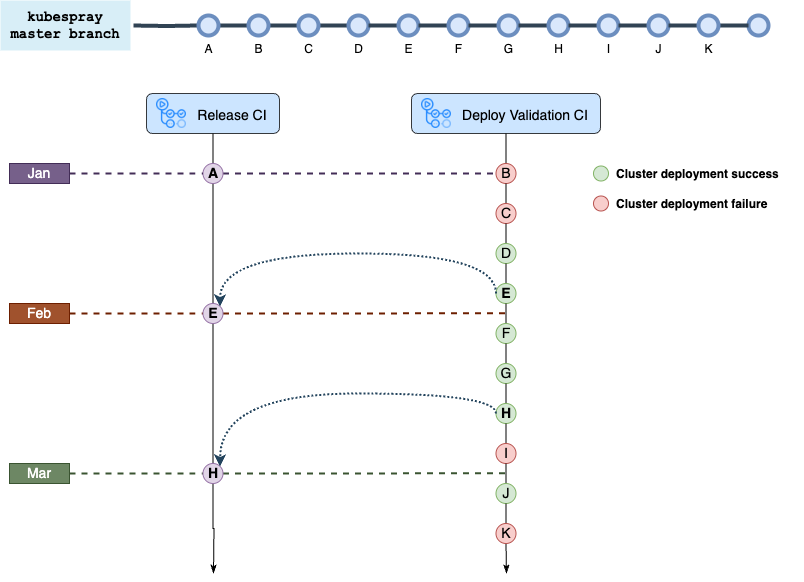
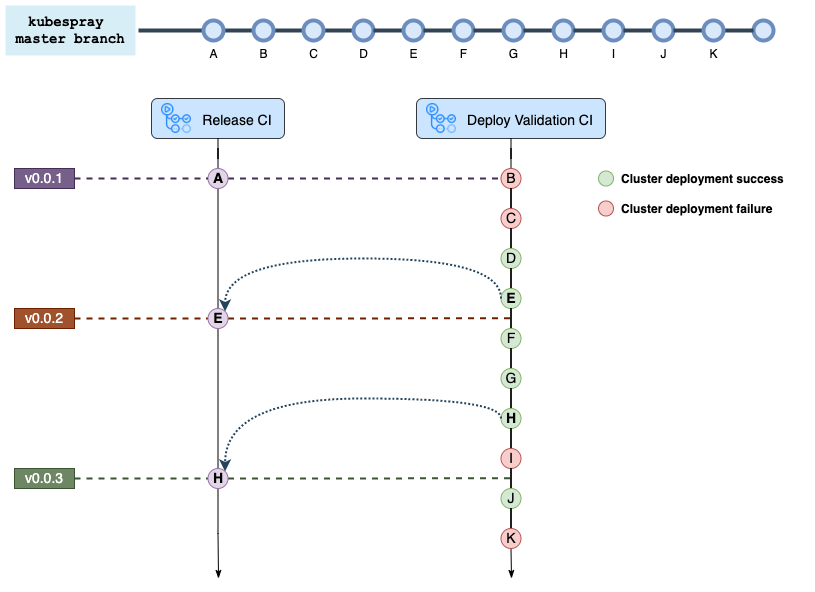
make cache for new repo

diff --git a/release-process.md b/release-process.md
@@ -51,7 +51,7 @@ post steps:
 
 ![lock_kubespray_commit](./docs/overrides/assets/images/lock_kubespray_commit.png)
 
-Note: By default, we fix the version of Kubespray at the beginning of each calendar month
+> Note: By default, each time kubeam releases a new version, we update the kubespray version(commit) in [version.yml](./version.yml).
 
 Before raise a release for Kubean, we need to ensure whether update the version of Kubespray or not. It depends on whether the upstream brings up something [interesting or important](#When-to-raise-a-release), if so, we need to update it. But before that we should ensure that the new version of Kubespray is stable enough. So we need to check the latest successful [E2E test](https://github.com/kubean-io/kubean/actions/workflows/verify-kubespray.yaml)
 
